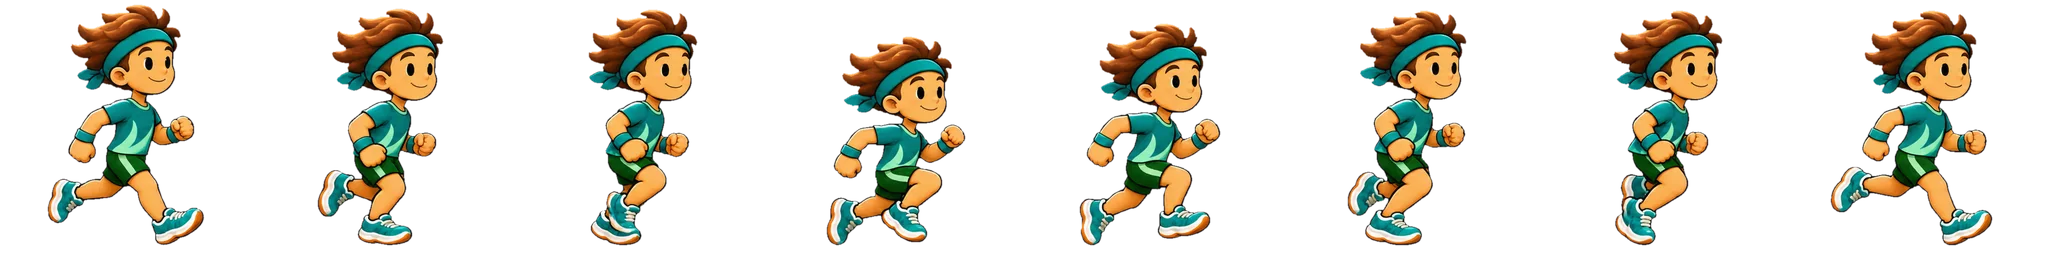
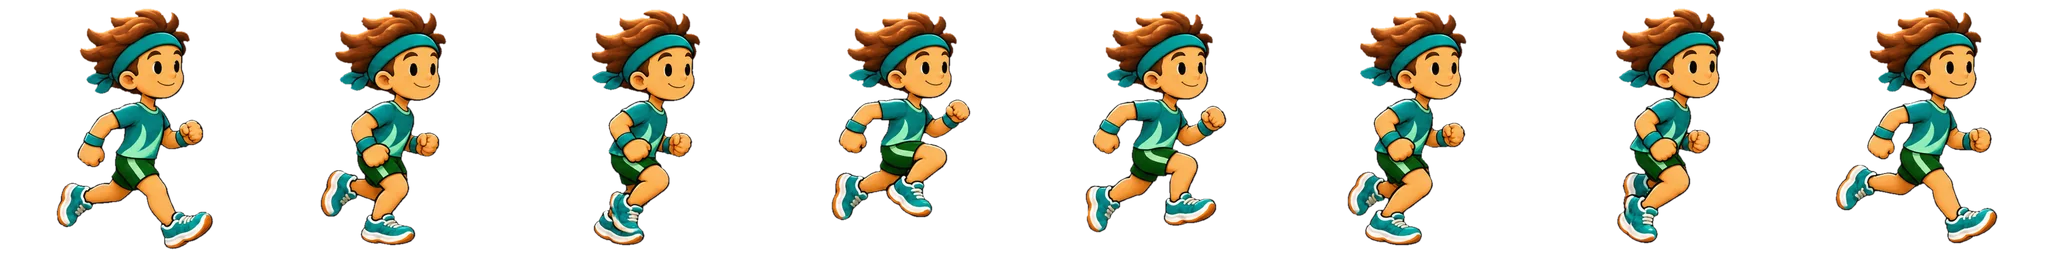
0.23.1: hold the head steady between walk and run frames
Claude-Session: https://claude.ai/code/session_015MgUfxYvuaf2H4JGRA2gxD

diff --git a/web/sw.js b/web/sw.js
@@ -1,5 +1,5 @@
 // Offline-first service worker. VERSION is kept equal to version.json by scripts/bump-version.mjs (a unit test enforces it).
-const VERSION = '0.23.0';
+const VERSION = '0.23.1';
 const CACHE = `stepup-${VERSION}`;
 const SHELL = ['./', 'index.html', 'manifest.webmanifest', 'version.json', 'icon.svg', 'css/packs.css', 'css/app.css',
   'js/app.js', 'js/routePlan.js', 'js/planner.js', 'js/planApi.js', 'js/ui/mapScreen.js', 'js/ui/planner.js', 'js/theme-boot.js', 'js/util.js', 'js/i18n.js', 'js/native.js', 'js/icons.js', 'js/brand.js', 'js/brandData.js', 'js/iconData.js', 'js/geo.js', 'js/workout.js', 'js/metronome.js', 'js/cadence.js', 'js/audio.js', 'js/format.js', 'js/store.js', 'js/ui/home.js', 'js/plan.js', 'js/indicators.js', 'js/appVersion.js', 'js/art.js', 'js/voice.js', 'js/records.js', 'js/facts.js', 'js/actions.js', 'js/guide.js', 'js/strings08.js', 'js/strings09.js', 'js/characterData.js', 'js/puppetRig.js', 'js/ui/puppet.js', 'js/ui/character.js', 'art/character/walk.webp', 'art/character/run.webp', 'art/character/pose-idle.webp', 'art/character/pose-jump.webp', 'art/character/pose-cheer.webp', 'art/character/pose-wave.webp', 'art/character/pose-rest.webp', 'art/character/pose-stretch.webp', 'art/character/pose-medal.webp', 'art/character/pose-trophy.webp', 'art/character/pose-podium.webp', 'art/character/pose-point.webp', 'art/character/pose-think.webp', 'art/character/pose-sit.webp', 'art/character/pose-sleep.webp', 'art/character/pose-rain.webp', 'js/ui/guide.js', 'art/workout/banner-afternoon-dark.svg', 'art/workout/banner-afternoon-light.svg', 'art/workout/banner-evening-dark.svg', 'art/workout/banner-evening-light.svg', 'art/workout/banner-morning-dark.svg', 'art/workout/banner-morning-light.svg', 'art/workout/banner-night-dark.svg', 'art/workout/banner-night-light.svg', 'art/workout/card-forest-dark.svg', 'art/workout/card-forest-light.svg', 'art/workout/card-ocean-dark.svg', 'art/workout/card-ocean-light.svg', 'art/workout/card-sunrise-dark.svg', 'art/workout/card-sunrise-light.svg', 'art/workout/count-1-dark.svg', 'art/workout/count-1-light.svg', 'art/workout/count-2-dark.svg', 'art/workout/count-2-light.svg', 'art/workout/count-3-dark.svg', 'art/workout/count-3-light.svg', 'art/workout/count-4-dark.svg', 'art/workout/count-4-light.svg', 'art/workout/count-5-dark.svg', 'art/workout/count-5-light.svg', 'art/workout/count-go-dark.svg', 'art/workout/count-go-light.svg', 'art/workout/hint-double-tap-dark.svg', 'art/workout/hint-double-tap-light.svg', 'art/workout/hint-volume-keys-dark.svg', 'art/workout/hint-volume-keys-light.svg', 'js/ui/workoutShare.js', 'js/shareCard.js', 'js/metrics.js', 'js/gpx.js', 'js/daypart.js', 'js/challenge.js', 'art/celebrate/avatar-frame-dark.svg', 'art/celebrate/avatar-frame-light.svg', 'art/celebrate/confetti-circle-dark.svg', 'art/celebrate/confetti-circle-light.svg', 'art/celebrate/confetti-curl-dark.svg', 'art/celebrate/confetti-curl-light.svg', 'art/celebrate/confetti-rectangle-dark.svg', 'art/celebrate/confetti-rectangle-light.svg', 'art/celebrate/confetti-star-dark.svg', 'art/celebrate/confetti-star-light.svg', 'art/celebrate/confetti-triangle-dark.svg', 'art/celebrate/confetti-triangle-light.svg', 'art/celebrate/distance-record-dark.svg', 'art/celebrate/distance-record-light.svg', 'art/celebrate/fastest-kilometre-dark.svg', 'art/celebrate/fastest-kilometre-light.svg', 'art/celebrate/forest-dark.svg', 'art/celebrate/forest-light.svg', 'art/celebrate/laurel-dark.svg', 'art/celebrate/laurel-light.svg', 'art/celebrate/longest-streak-dark.svg', 'art/celebrate/longest-streak-light.svg', 'art/celebrate/medal-dark.svg', 'art/celebrate/medal-light.svg', 'art/celebrate/most-workouts-week-dark.svg', 'art/celebrate/most-workouts-week-light.svg', 'art/celebrate/ocean-dark.svg', 'art/celebrate/ocean-light.svg', 'art/celebrate/pace-record-dark.svg', 'art/celebrate/pace-record-light.svg', 'art/celebrate/podium-floor-dark.svg', 'art/celebrate/podium-floor-light.svg', 'art/celebrate/podium-steps-dark.svg', 'art/celebrate/podium-steps-light.svg', 'art/celebrate/rays-dark.svg', 'art/celebrate/rays-light.svg', 'art/celebrate/ribbon-dark.svg', 'art/celebrate/ribbon-light.svg', 'art/celebrate/sunrise-dark.svg', 'art/celebrate/sunrise-light.svg', 'art/celebrate/trophy-dark.svg', 'art/celebrate/trophy-light.svg', 'js/podiumCard.js', 'js/ui/podium.js', 'js/mapView.js', 'js/ui/maptiles.js', 'js/backup.js', 'js/ui/backup.js', 'art/badges/almost-distance-dark.svg', 'art/badges/almost-distance-light.svg', 'art/badges/almost-record-dark.svg', 'art/badges/almost-record-light.svg', 'art/badges/faster-last-dark.svg', 'art/badges/faster-last-light.svg', 'art/badges/fastest-km-dark.svg', 'art/badges/fastest-km-light.svg', 'art/badges/new-record-dark.svg', 'art/badges/new-record-light.svg', 'art/badges/passed-distance-dark.svg', 'art/badges/passed-distance-light.svg', 'art/onboarding/caught-up-dark.svg', 'art/onboarding/caught-up-light.svg', 'art/onboarding/no-plan-dark.svg', 'art/onboarding/no-plan-light.svg', 'art/onboarding/no-routes-dark.svg', 'art/onboarding/no-routes-light.svg', 'art/onboarding/no-workouts-dark.svg', 'art/onboarding/no-workouts-light.svg', 'art/onboarding/offline-dark.svg', 'art/onboarding/offline-light.svg', 'art/onboarding/welcome-dark.svg', 'art/onboarding/welcome-light.svg', 'art/weather/clear-dark.svg', 'art/weather/clear-light.svg', 'art/weather/cloudy-dark.svg', 'art/weather/cloudy-light.svg', 'art/weather/cold-dark.svg', 'art/weather/cold-light.svg', 'art/weather/hot-dark.svg', 'art/weather/hot-light.svg', 'art/weather/rain-dark.svg', 'art/weather/rain-light.svg', 'art/weather/windy-dark.svg', 'art/weather/windy-light.svg', 'js/update.js', 'js/strings07.js', 'js/ui/about.js', 'js/strings06.js', 'js/ui/plan.js', 'js/schedule.js', 'js/widgetData.js', 'js/syncNative.js', 'js/strings05.js', 'js/route.js', 'js/routeReco.js', 'js/strings04.js', 'js/ui/routes.js', 'js/ui/livemap.js', 'js/forecast.js', 'js/reco.js', 'js/weatherApi.js', 'js/strings03.js', 'js/ui/reco.js', 'js/stats.js', 'js/steps.js', 'js/effort.js', 'js/reminders.js', 'js/alerts.js', 'js/search.js', 'js/charts.js', 'js/reminderLoop.js', 'js/strings02.js', 'js/ui/dashboard.js', 'js/ui/alerts.js', 'js/ui/search.js', 'js/ui/notify.js', 'js/ui/settings.js', 'js/ui/history.js', 'js/ui/workout.js', 'js/ui/rhythm.js',

diff --git a/web/js/appVersion.js b/web/js/appVersion.js
@@ -1,2 +1,2 @@
 // The version of the code that is running (kept equal to version.json by scripts/bump-version.mjs; a unit test enforces it).
-export const APP_VERSION = '0.23.0';
+export const APP_VERSION = '0.23.1';

diff --git a/scripts/make-character-sprites.py b/scripts/make-character-sprites.py
@@ -52,6 +52,25 @@ def place(img, scale, size, centre='mass'):
     canvas = Image.new('RGBA', (size, size), (0, 0, 0, 0)); x = round(size / 2 - cx); y = min(BASE, size - 6) - img.height
     canvas.alpha_composite(img, (max(0, min(size - img.width, x)), max(0, y))); return canvas
 
+def hair_centre(img):
+    """Centroid (x, y) of the brown hair: the steadiest landmark of the character, used to hold the head still between frames."""
+    a = np.array(img).astype(int); r, g, b, al = a[..., 0], a[..., 1], a[..., 2], a[..., 3]
+    m = (al > 200) & (r > g + 18) & (r > 90) & (b < 90) & (g < 130); m[int(a.shape[0] * 0.30):] = False  # only the head area: the orange soles have the same colour
+    ys, xs = np.nonzero(m); return xs.mean(), ys.mean()
+
+def place_cycle(frames, scale, size):
+    """All frames of a cycle at ONE scale, with the head at the same spot in every frame (x and y). Standing the feet on a baseline instead (as place() does)
+    made the whole body jump up and down by up to 34 px in the run's flight frames; held by the head, only the limbs move. The head spot is chosen so
+    the lowest foot of any frame still fits above the bottom margin."""
+    imgs = []
+    for f in frames:
+        g = f.crop(f.getbbox()); g = g.resize((max(1, round(g.width * scale)), max(1, round(g.height * scale))), Image.LANCZOS); hx, hy = hair_centre(g); imgs.append((g, hx, hy))
+    below = max(g.height - hy for g, hx, hy in imgs); above = max(hy for g, hx, hy in imgs); hy0 = max(above + 4, size - 6 - below)
+    strip = []
+    for g, hx, hy in imgs:
+        c = Image.new('RGBA', (size, size), (0, 0, 0, 0)); c.alpha_composite(g, (round(size / 2 - hx), round(hy0 - hy))) if (round(size / 2 - hx) >= 0 and round(hy0 - hy) >= 0) else c.paste(g, (round(size / 2 - hx), round(hy0 - hy)), g); strip.append(c)
+    return strip
+
 def cells(sheet):
     im = Image.open(SRC / sheet).convert('RGBA'); return [im.crop(((i % 4) * CELL, (i // 4) * CELL, (i % 4 + 1) * CELL, (i // 4 + 1) * CELL)) for i in range(8)]
 
@@ -59,7 +78,7 @@ meta = {'cycles': {}, 'poses': {}}; qa = []
 for name, (sheet, ms) in CYCLES.items():
     frames = [clean(c) for c in cells(sheet)]; assert all(f is not None for f in frames), name
     strip = Image.new('RGBA', (FRAME * 8, FRAME), (0, 0, 0, 0))
-    for i, f in enumerate(frames): strip.alpha_composite(place(f, SCALE, FRAME), (i * FRAME, 0))
+    for i, f in enumerate(place_cycle(frames, SCALE, FRAME)): strip.alpha_composite(f, (i * FRAME, 0))
     strip.save(OUT / f'{name}.webp', 'WEBP', quality=84, alpha_quality=92, method=6); meta['cycles'][name] = {'file': f'art/character/{name}.webp', 'frames': 8, 'w': FRAME, 'h': FRAME, 'ms': ms}; qa.append((name, strip))
 for sheet, names in POSES.items():
     for n, c in zip(names, cells(sheet)):

diff --git a/docs/CHANGELOG.md b/docs/CHANGELOG.md
@@ -1,5 +1,11 @@
 # Changelog
 
+## 0.23.1
+- **Steadier walk and run**: `scripts/make-character-sprites.py` now holds the head at the same spot in every frame of a cycle (the brown hair of the head area is the landmark; the orange soles have the same colour, so only the top 30 % of the figure is used) instead of standing the lowest foot on a baseline. Before, the whole body jumped up and down by up to 34 px in the run's flight frames and the head wandered 5 px (walk) and 11 px (run) between frames; now the head moves less than 1 px and only the limbs move. The cut-outs, scale (one scale for every frame) and file sizes are unchanged.
+- Tried and rejected: re-ordering the frames to the smoothest cycle (the pixel-distance optimum scrambles the gait order) and cross-dissolved in-between frames (they show double legs and arms).
+- Still not a true loop: the frames are the illustrator's eight drawings, so the step from frame to frame can look slightly jumpy; a real fix needs new frame-by-frame art or a puppet (see `docs/prompts/ROUND12_PUPPET_PROMPT.md`, shelved).
+- Verified: static checks, unit tests, the full e2e, the Hebrew and English journeys with regenerated guide screenshots.
+
 ## 0.23.0
 - **A new, illustrated character** (from a fresh ChatGPT conversation, `docs/prompts/ROUND10_CHARACTER_PROMPT.md`; the art is in `design/stepup/character/`): a friendly, sporty kid with a teal headband, tousled hair, teal top, green shorts and teal running shoes. It replaces the vector rig everywhere (start cards, welcome card, workout summary, countdown, user guide).
 - **Walk and run animations** on the start cards: a strip of 8 frames played with `steps(8)` (walk 1.2 s, run 0.7 s). Calm animations and the phone's reduce-motion setting show the first frame. Still poses elsewhere: wave (welcome and guide), cheer (summary), idle then jump (countdown 3-2-1 / Go), and along the guide: point, think, stretch, rest, cheer, trophy at the end. More poses are ready for later screens: medal, podium, sit, sleep, rain.
